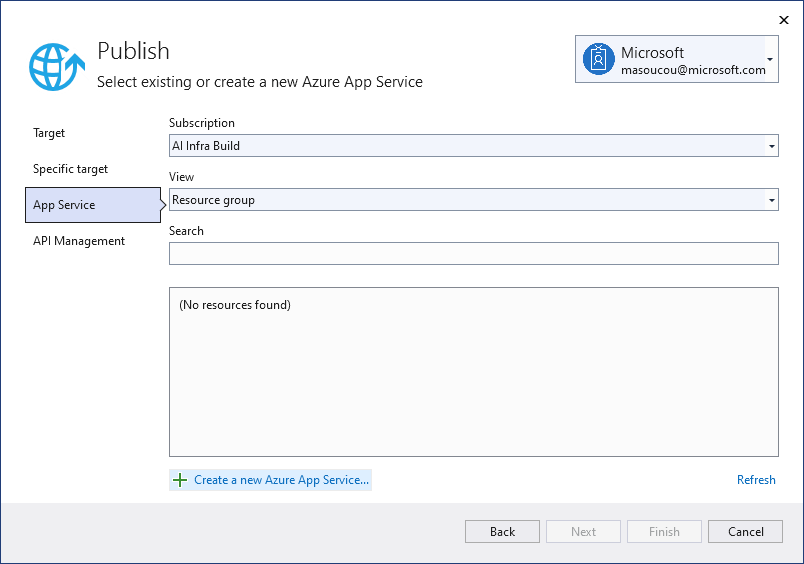
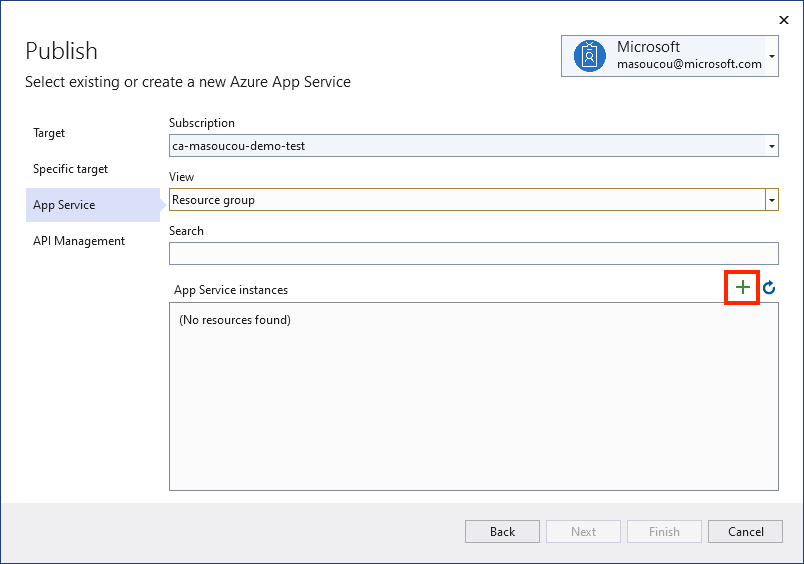
Pub2azure api/ra (#20704)
* updating tutorial with latest screenshots

* Rick's update of PR on pub to azure API

* Rick's update of PR on pub to azure API

diff --git a/aspnetcore/tutorials/publish-to-azure-api-management-using-vs.md b/aspnetcore/tutorials/publish-to-azure-api-management-using-vs.md
@@ -4,7 +4,7 @@ author: codemillmatt
 description: Learn how to publish an ASP.NET Core web API to Azure API Management using Visual Studio.
 ms.author: masoucou
 ms.custom: "devx-track-csharp, mvc"
-ms.date: 08/26/2020
+ms.date: 11/22/2020
 uid: tutorials/publish-to-azure-api-management-using-vs
 ---
 # Publish an ASP.NET Core web API to Azure API Management with Visual Studio
@@ -102,11 +102,15 @@ At this point, you need to add an API to the Azure API Management service. Leave
 
 1. Open the API Management Service instance created previously in the Azure portal. Select the **APIs** blade:
 
-    ![APIs blade selected from the API Management Service instance](publish-to-azure-api-management-using-vs/_static/portal_api_overview.png)
+  ![APIs blade selected from the API Management Service instance](publish-to-azure-api-management-using-vs/_static/portal_api_overview.png)
+
+1. Select the 3 dots next to **Echo API** and then select **Delete** from the pop-up menu to remove it.
+
+  ![Deleting the echo API from the API Management Service instance](publish-to-azure-api-management-using-vs/_static/portal_delete_echo.png)
 
 1. From the **Add a new API** panel, select the **Blank API** tile:
 
-    ![Screen showing the blank API tile highlighted](publish-to-azure-api-management-using-vs/_static/portal_api_create_blank.png)
+  ![Screen showing the blank API tile highlighted](publish-to-azure-api-management-using-vs/_static/portal_api_create_blank.png)
 
 1. Enter the following values in the **Create a blank API** dialog that appears:    
 
